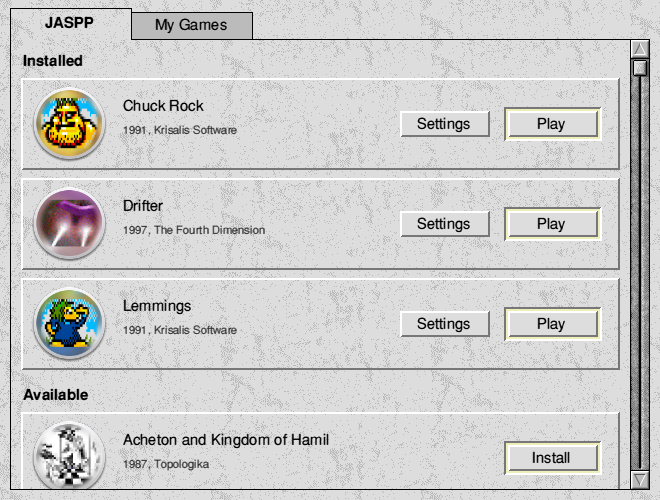
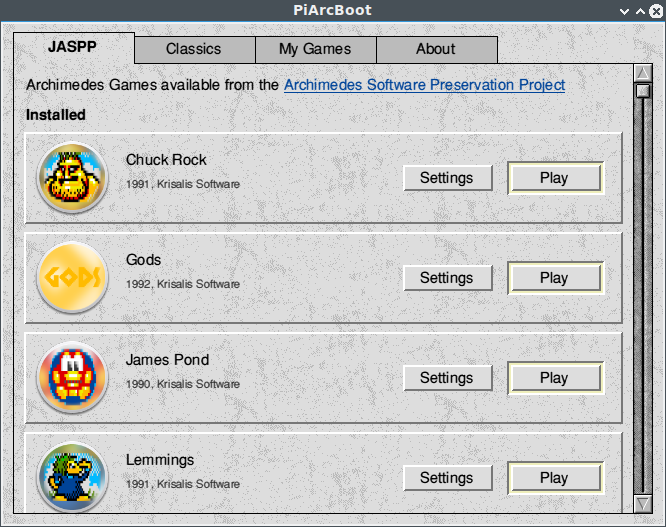
Readme screenshots show this version: the four tabs, the disc table and Lemmings in play

diff --git a/README.md b/README.md
@@ -8,7 +8,7 @@
 
 <p align="center">Discord: <a href="https://discord.gg/88VzuWSYUc">https://discord.gg/88VzuWSYUc</a></p>
 
-![The launcher's JASPP tab, with three games installed and the rest ready to install](docs/launcher.png)
+![The launcher's JASPP tab, with four games installed](docs/launcher.png)
 
 ## Background
 
@@ -38,7 +38,7 @@ PiArcBoot is an unofficial project and isn't affiliated with JASPP or with RISC 
 - **Saves are kept** in a file beside each disc image, and the image itself is never changed. Any disc can be made read only.
 - **Copy protection as the disc has it**, so the games' own disc checks pass.
 
-![Lemmings on a Raspberry Pi 400 with its Game menu open](docs/game.png)
+![Lemmings' first level in a window of its own, under its Game and Switch Floppy menus](docs/game.png)
 
 ## What works
 
@@ -106,7 +106,7 @@ To set an auto switch point, wait for the game to ask for a disc, choose **Set A
 
 Games are kept in `~/.local/share/piarcboot/games`, a folder each, with their disc images, saved changes (`.sav`), icon and settings.
 
-![Settings for a game made from disc images, with its name, how it starts and its icon](docs/mygame.png)
+![The Settings for Gods, with its two discs and the second one set to read only](docs/settings.png)
 
 ## How it works
 
